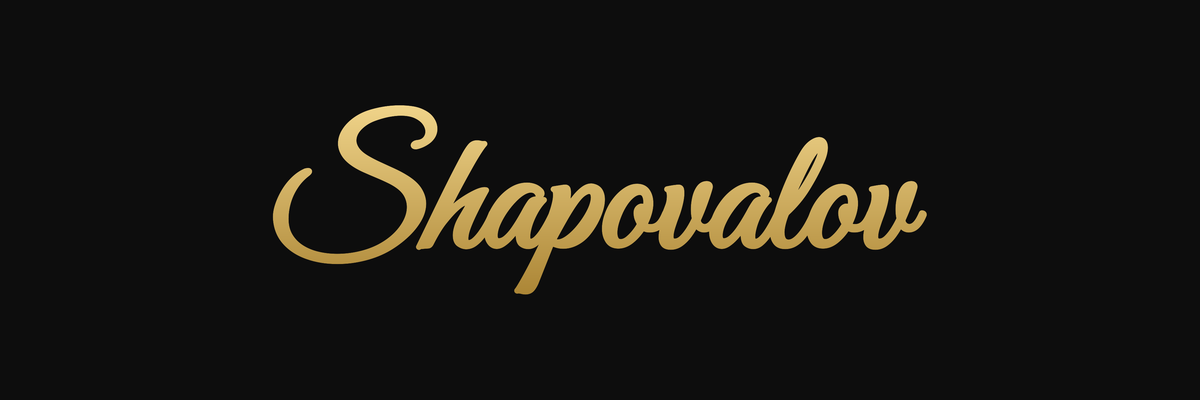
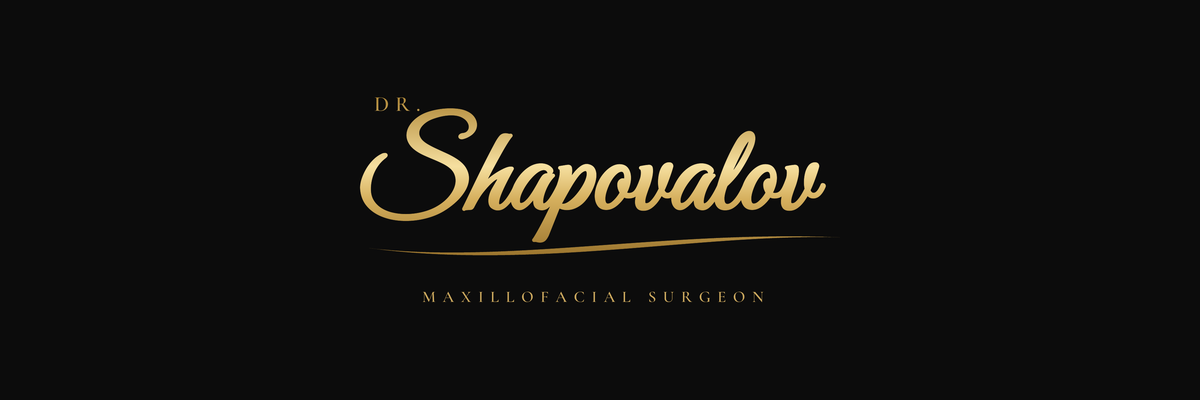
Script wordmark: refined Dr. Shapovalov lockup
Replaces the boxed can-style taglines with a quieter lockup: tracked
Cormorant "DR." above the script surname, a tapered gold ribbon swash,
one tracked tagline, and a metallic gold gradient with a highlight band.

Claude-Session: https://claude.ai/code/session_01HsYw9MJ57U96x7oikCZZgB

Changed region(s): [[0.2158, 0.24, 0.7708, 0.75], [0.555, 0.72, 0.6475, 0.75]]

diff --git a/branding/dr-shapovalov/script/make.py b/branding/dr-shapovalov/script/make.py
@@ -1,86 +1,119 @@
+"""Gold script wordmark "Dr. Shapovalov" on matte black.
+
+Mood borrowed from the black-and-gold Coke Zero can (script + ribbon + gold on black),
+nothing copied from that trademark. Fonts (SIL OFL) are fetched by getfont.py into .fonts/.
+"""
+import math
 from PIL import Image, ImageDraw, ImageFilter, ImageFont
 
 SS = 3
-BG = (13, 13, 13)
-GOLD_TOP, GOLD_BOTTOM = (240, 212, 138), (172, 134, 54)
+BG = (12, 12, 12)
+# metallic gold: darker edges, a light band just above the middle
+STOPS = [(0.0, (178, 138, 58)), (0.42, (246, 224, 160)), (0.62, (214, 176, 94)), (1.0, (150, 112, 42))]
 SCRIPT = '.fonts/GreatVibes.ttf'
-SERIF = '.fonts/DMSerifText.ttf'
-NAME = 'Shapovalov'
-LINES = [('maxillofacial surgeon', True), ('pediatric department', False), ('PhD · Moscow', False)]
+CAPS = '.fonts/CormorantGaramond-600.ttf'
+NAME, PREFIX, TAGLINE = 'Shapovalov', 'DR.', 'MAXILLOFACIAL SURGEON'
+
+
+TAIL = (208, 172, 96)                   # flat gold below the gradient span (the tagline)
 
 
 def gold(size, y0, y1):
     w, h = size
     col = Image.new('RGB', (1, h))
     for y in range(h):
+        if y > y1:
+            col.putpixel((0, y), TAIL)
+            continue
         f = min(1, max(0, (y - y0) / max(1, y1 - y0)))
-        col.putpixel((0, y), tuple(int(a + (b - a) * f) for a, b in zip(GOLD_TOP, GOLD_BOTTOM)))
+        for (a, ca), (b, cb) in zip(STOPS, STOPS[1:]):
+            if a <= f <= b:
+                t = (f - a) / (b - a)
+                col.putpixel((0, y), tuple(int(p + (q - p) * t) for p, q in zip(ca, cb)))
+                break
     return col.resize((w, h))
 
 
-def wordmark_mask(px_height):
-    """Script surname, slightly emboldened (stroke in the same fill), tight-cropped mask."""
-    font = ImageFont.truetype(SCRIPT, px_height)
-    tmp = Image.new('L', (px_height * 8, px_height * 3), 0)
-    ImageDraw.Draw(tmp).text((px_height, px_height), NAME, font=font, fill=255,
-                             stroke_width=max(1, px_height // 55), stroke_fill=255)
-    return tmp.crop(tmp.getbbox())
+def tracked(d, xy, text, font, fill, track):
+    x, y = xy
+    for ch in text:
+        d.text((x, y), ch, font=font, fill=fill, anchor='ls')
+        x += d.textlength(ch, font=font) + track
 
 
-def compose(W, H, with_lines, name_h_frac):
-    w, h = W * SS, H * SS
+def tracked_len(d, text, font, track):
+    return sum(d.textlength(c, font=font) for c in text) + track * (len(text) - 1)
+
+
+def ribbon(d, p0, p1, p2, p3, max_w):
+    """Tapered cubic-bezier swash: hairline at both ends, fullest just past the middle."""
+    n = 1400
+    for i in range(n + 1):
+        t = i / n
+        x = (1-t)**3*p0[0] + 3*(1-t)**2*t*p1[0] + 3*(1-t)*t**2*p2[0] + t**3*p3[0]
+        y = (1-t)**3*p0[1] + 3*(1-t)**2*t*p1[1] + 3*(1-t)*t**2*p2[1] + t**3*p3[1]
+        r = max_w / 2 * math.sin(math.pi * t) ** 1.4 + 0.6
+        d.ellipse([x - r, y - r, x + r, y + r], fill=255)
+
+
+def lockup(name_h, with_tagline=True):
+    """Draws the whole mark into an 'L' mask; returns the mask cropped to its content."""
+    script = ImageFont.truetype(SCRIPT, name_h)
+    probe = Image.new('L', (name_h * 8, name_h * 3), 0)
+    ImageDraw.Draw(probe).text((name_h, name_h), NAME, font=script, fill=255,
+                               stroke_width=max(1, name_h // 60), stroke_fill=255)
+    l, t, r, b = probe.getbbox()
+    wm = probe.crop((l, t, r, b)); W, H = wm.size
+
+    caps = ImageFont.truetype(CAPS, int(H * 0.16))
+    tag = ImageFont.truetype(CAPS, int(H * 0.12))
+    pad = int(H * 0.5)
+    canvas = Image.new('L', (W + 2 * pad, int(H * 2.1) + 2 * pad), 0)
+    d = ImageDraw.Draw(canvas)
+    ox, oy = pad, pad + int(H * 0.28)
+    canvas.paste(wm, (ox, oy), wm)
+
+    # "DR." tucked above the S's upper swash, small and widely tracked
+    tracked(d, (ox + int(W * 0.03), oy + int(H * 0.02)), PREFIX, caps, 255, H * 0.045)
+
+    # ribbon under the name, like the can's wave but quiet
+    y_rib = oy + H * 1.02
+    ribbon(d, (ox + W * 0.02, y_rib + H * 0.02), (ox + W * 0.34, y_rib + H * 0.16),
+           (ox + W * 0.70, y_rib - H * 0.10), (ox + W * 1.03, y_rib - H * 0.06), H * 0.038)
+
+    if with_tagline:
+        tw = tracked_len(d, TAGLINE, tag, H * 0.05)
+        tracked(d, (ox + (W - tw) / 2, y_rib + H * 0.42), TAGLINE, tag, 255, H * 0.05)
+    return canvas.crop(canvas.getbbox())
+
+
+def compose(Wc, Hc, frac_w, with_tagline):
+    w, h = Wc * SS, Hc * SS
+    mark = lockup(400 * SS, with_tagline)
+    k = min(w * frac_w / mark.width, h * 0.72 / mark.height)
+    mark = mark.resize((int(mark.width * k), int(mark.height * k)), Image.LANCZOS)
     mask = Image.new('L', (w, h), 0)
-    wm = wordmark_mask(int(h * name_h_frac))
-    if wm.width > w * 0.8:                              # keep side margins on narrow canvases
-        k = w * 0.8 / wm.width
-        wm = wm.resize((int(wm.width * k), int(wm.height * k)), Image.LANCZOS)
-    if with_lines:
-        serif = ImageFont.truetype(SERIF, int(wm.height * 0.13))
-        d = ImageDraw.Draw(mask)
-        asc, desc = serif.getmetrics()
-        lh = int((asc + desc) * 1.08)
-        block_h = wm.height + int(wm.height * 0.12) + lh * len(LINES)
-        top = (h - block_h) // 2
-        x0 = (w - wm.width) // 2
-        mask.paste(wm, (x0, top), wm)
-        y = top + wm.height + int(wm.height * 0.12)
-        tx = x0 + int(wm.width * 0.16)                # tagline starts under the "h", like the can
-        inverse = []
-        for text, boxed in LINES:
-            if boxed:
-                tw = d.textlength(text, font=serif)
-                pad = int(lh * 0.12)
-                inverse.append((tx - pad, y, tx + tw + pad, y + lh, text))
-            else:
-                d.text((tx, y), text, font=serif, fill=255)
-            y += lh
-        for l, t, r, b, text in inverse:                # gold plate with the text knocked out
-            d.rectangle([l, t + int(lh * 0.06), r, b - int(lh * 0.02)], fill=255)
-            d.text((l + int(lh * 0.12), t), text, font=serif, fill=0)
-        y0, y1 = top, y
-    else:
-        top = (h - wm.height) // 2
-        mask.paste(wm, ((w - wm.width) // 2, top), wm)
-        y0, y1 = top, top + wm.height
+    x0, y0 = (w - mark.width) // 2, (h - mark.height) // 2
+    mask.paste(mark, (x0, y0), mark)
     img = Image.new('RGB', (w, h), BG)
-    img.paste(gold((w, h), y0, y1), (0, 0), mask)
-    # soft vignette for a matte-can feel
+    img.paste(gold((w, h), y0, y0 + int(mark.height * 0.8)), (0, 0), mask)   # gradient on name + ribbon
     vig = Image.new('L', (w, h), 0)
-    ImageDraw.Draw(vig).ellipse([-w * 0.2, -h * 0.6, w * 1.2, h * 1.6], fill=255)
-    vig = vig.filter(ImageFilter.GaussianBlur(w // 12))
-    img = Image.composite(img, Image.new('RGB', (w, h), (4, 4, 4)), vig)
-    return img.resize((W, H), Image.LANCZOS), mask
+    ImageDraw.Draw(vig).ellipse([-w * 0.25, -h * 0.7, w * 1.25, h * 1.7], fill=255)
+    vig = vig.filter(ImageFilter.GaussianBlur(w // 10))
+    img = Image.composite(img, Image.new('RGB', (w, h), (3, 3, 3)), vig)
+    return img.resize((Wc, Hc), Image.LANCZOS)
 
 
-def transparent(px_height):
-    wm = wordmark_mask(px_height * SS)
-    out = Image.new('RGBA', wm.size, (0, 0, 0, 0))
-    out.paste(gold(wm.size, 0, wm.height), (0, 0), wm)
-    return out.resize((wm.width // SS, wm.height // SS), Image.LANCZOS)
+def transparent(width):
+    mark = lockup(400 * SS, True)
+    out = Image.new('RGBA', mark.size, (0, 0, 0, 0))
+    out.paste(gold(mark.size, 0, int(mark.height * 0.8)), (0, 0), mark)
+    return out.resize((width, int(mark.height * width / mark.width)), Image.LANCZOS)
 
 
-compose(1080, 1080, True, 0.30)[0].save('shapovalov-square.png')
-compose(1500, 500, False, 0.42)[0].save('shapovalov-cover-1500x500.png')
-compose(1200, 400, False, 0.42)[0].save('shapovalov-cover-1200x400.png')
-transparent(400).save('shapovalov-wordmark-gold.png')
-print('ok')
+if __name__ == '__main__':
+    compose(1080, 1080, 0.74, True).save('shapovalov-square.png')
+    compose(1500, 500, 0.40, True).save('shapovalov-cover-1500x500.png')
+    compose(1200, 400, 0.40, True).save('shapovalov-cover-1200x400.png')
+    transparent(1600).save('shapovalov-wordmark-gold.png')
+    print('ok')
